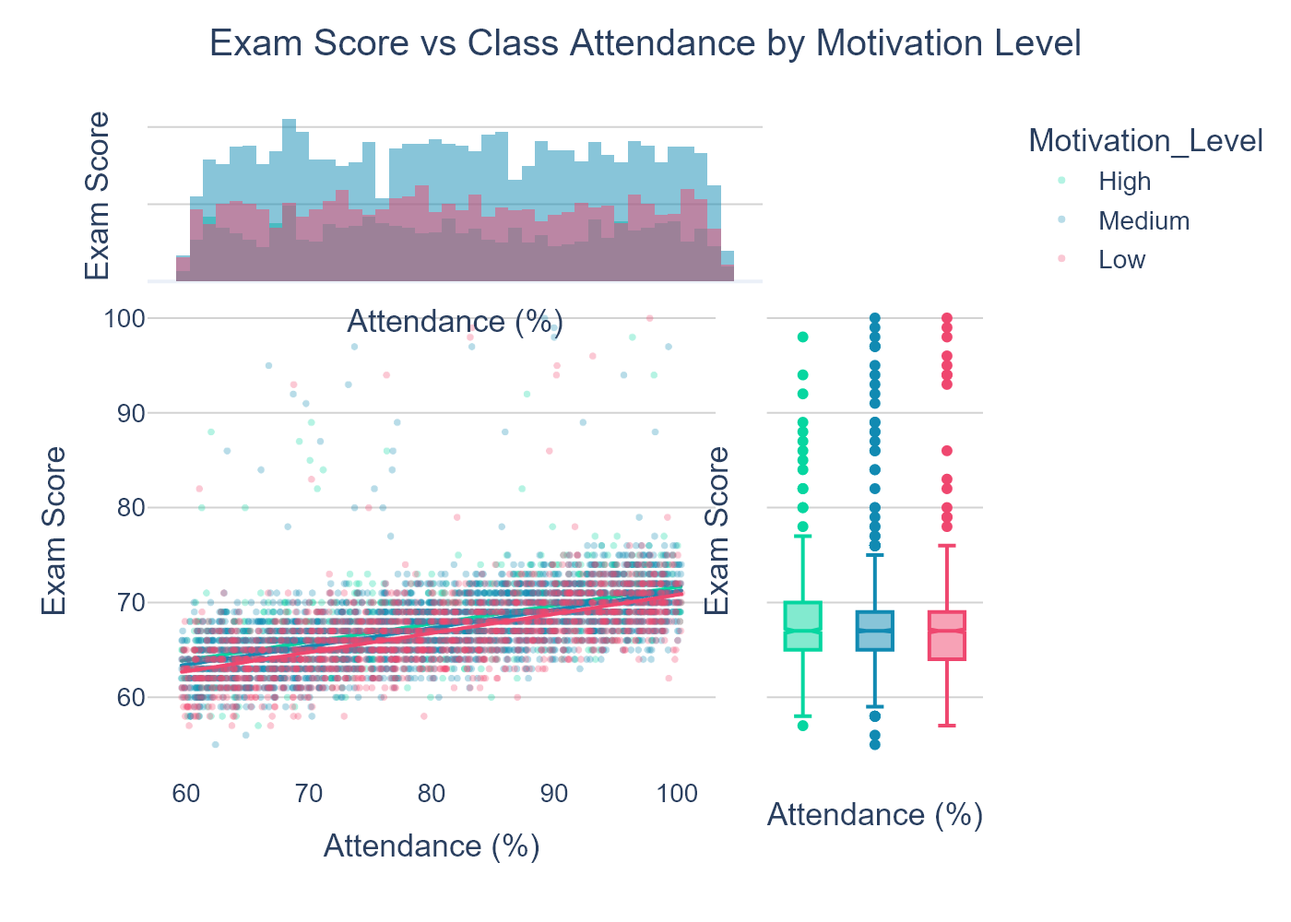
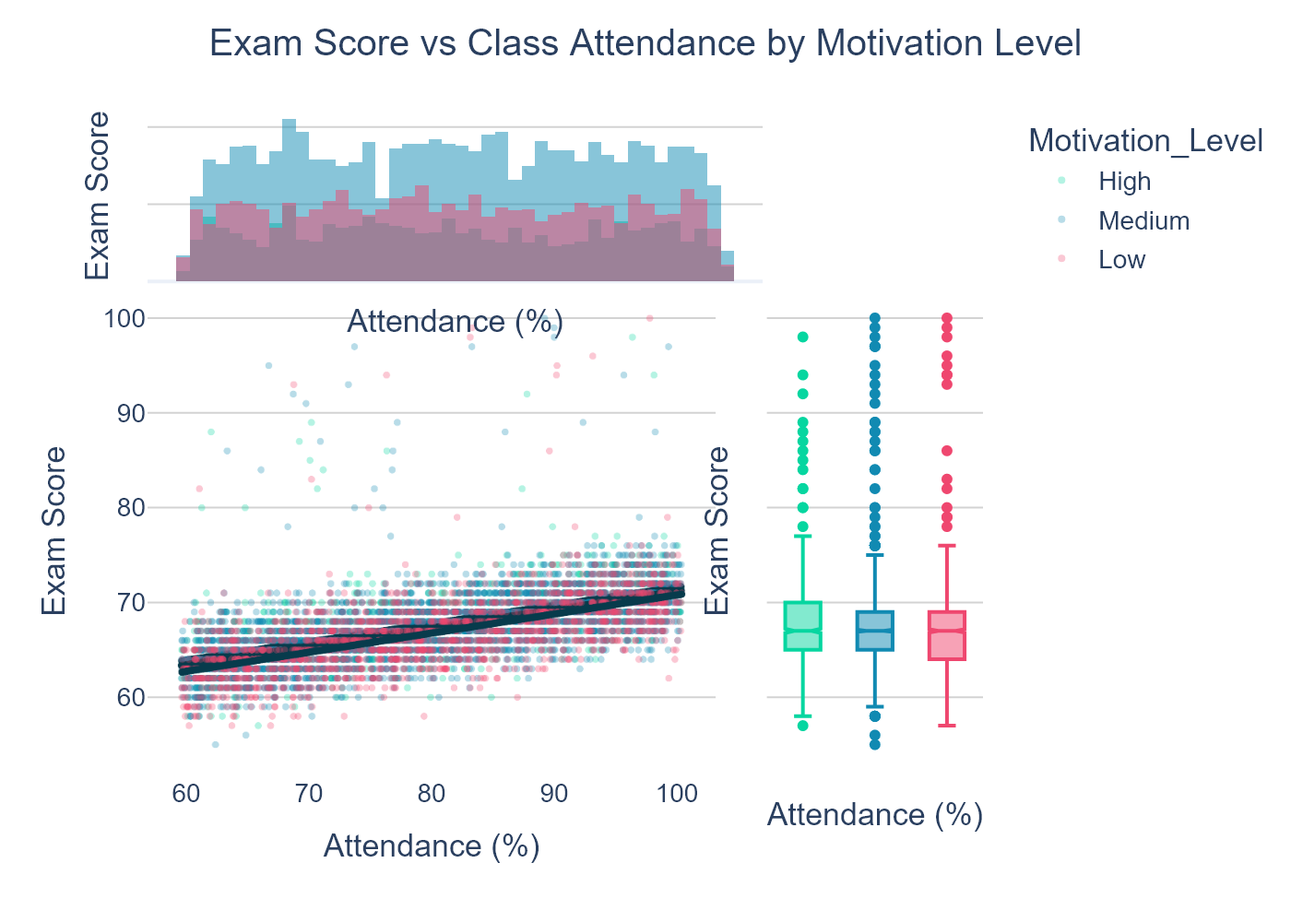
Update

Changed region(s): [[0.1229, 0.62, 0.5529, 0.744]]

diff --git a/scripts/2_3_advanced_visualizations.py b/scripts/2_3_advanced_visualizations.py
@@ -47,6 +47,7 @@ fig_s1 = px.scatter(
     marginal_x="histogram", marginal_y="box"
 )
 fig_s1.update_traces(marker=dict(size=4), selector=dict(mode='markers'))
+fig_s1.update_traces(line=dict(color="#073B4C", width=4), selector=dict(mode='lines'))
 fig_s1 = polish_layout(fig_s1, "Exam Score vs Class Attendance by Motivation Level",
                         "Attendance (%)", "Exam Score")
 fig_s1.update_layout(
@@ -65,6 +66,7 @@ fig_s2 = px.scatter(
     marginal_x="histogram", marginal_y="box"
 )
 fig_s2.update_traces(marker=dict(size=4), selector=dict(mode='markers'))
+fig_s2.update_traces(line=dict(color="#073B4C", width=4), selector=dict(mode='lines'))
 fig_s2 = polish_layout(fig_s2, "Exam Score vs Previous Scores by Internet Access",
                         "Previous Score", "Exam Score")
 fig_s2.update_layout(
@@ -74,6 +76,31 @@ fig_s2.update_layout(
     xaxis=dict(domain=[0, 0.68])
 )
 fig_s2.write_image(os.path.join(plots_dir, "scatter_plots", "Scatter_Previous_Score.png"), scale=2)
+
+# Hours_Studied vs Exam_Score — stratified by Family_Income
+df['Hours_Studied_Jittered'] = df['Hours_Studied'] + np.random.uniform(-0.4, 0.4, size=len(df))
+color_income = {"Low": "#EF476F", "Medium": "#FFD166", "High": "#06D6A0"}
+ordinal_income = ["High", "Medium", "Low"]
+
+fig_s3 = px.scatter(
+    df, x="Hours_Studied_Jittered", y="Exam_Score", color="Family_Income",
+    color_discrete_map=color_income,
+    category_orders={"Family_Income": ordinal_income},
+    opacity=0.3, trendline="ols",
+    marginal_x="histogram", marginal_y="box"
+)
+fig_s3.update_traces(marker=dict(size=4), selector=dict(mode='markers'))
+fig_s3.update_traces(line=dict(color="#073B4C", width=4), selector=dict(mode='lines'))
+fig_s3 = polish_layout(fig_s3, "Exam Score vs Weekly Study Hours by Family Income",
+                        "Weekly Study Hours", "Exam Score")
+fig_s3.update_layout(
+    legend=dict(yanchor="top", y=1, xanchor="left", x=1.05,
+                bgcolor="rgba(255,255,255,0.85)"),
+    margin=dict(r=20),
+    xaxis=dict(domain=[0, 0.68])
+)
+fig_s3.write_image(os.path.join(plots_dir, "scatter_plots", "Scatter_Hours_Score.png"), scale=2)
+
 
 
 # =============================================================================
@@ -176,7 +203,7 @@ fig_par.write_image(os.path.join(plots_dir, "advanced", "ParallelCategories_Back
 # 5. CORRELATION HEATMAP
 # =============================================================================
 num_df = df.select_dtypes(include=[np.number]).drop(
-    columns=['Attendance_Jittered', 'Previous_Scores_Jittered'], errors='ignore'
+    columns=['Attendance_Jittered', 'Previous_Scores_Jittered', 'Hours_Studied_Jittered'], errors='ignore'
 )
 corr_matrix = num_df.corr().round(2)
 

diff --git a/scripts/2_2_basic_visualizations.py b/scripts/2_2_basic_visualizations.py
@@ -121,20 +121,29 @@ bins  = [0, 8, 16, 24, 32, df['Hours_Studied'].max()]
 labels = ['0–8 hrs', '9–16 hrs', '17–24 hrs', '25–32 hrs', f'33–{int(df["Hours_Studied"].max())} hrs']
 df['Hours_Studied_Bin'] = pd.cut(df['Hours_Studied'], bins=bins, labels=labels, right=True)
 
+# Attendance binned: 60–65, 65–70, 70–75, 75–80, 80–85, 85–90, 90–95, 95–100
+att_bins   = [60, 65, 70, 75, 80, 85, 90, 95, 100]
+att_labels = ['60–65%', '65–70%', '70–75%', '75–80%', '80–85%', '85–90%', '90–95%', '95–100%']
+df['Attendance_Bin'] = pd.cut(df['Attendance'], bins=att_bins, labels=att_labels, right=True, include_lowest=True)
+
 for col, name, color in [
     ('Hours_Studied_Bin', 'Weekly Study Hours',  '#118AB2'),
     ('Sleep_Hours',       'Nightly Sleep Hours', '#EF476F'),
     ('Tutoring_Sessions', 'Tutoring Sessions',   '#06D6A0'),
+    ('Attendance_Bin',    'Class Attendance (%)', '#40916C'),
     ]:
     line_df = df.groupby(col, as_index=False, observed=True)['Exam_Score'].mean()
     fig_line = px.line(line_df, x=col, y="Exam_Score", markers=True, line_shape="linear")
     fig_line.update_traces(line=dict(color=color, width=4), marker=dict(size=12, color="#073B4C"))
     fig_line = polish_layout(fig_line, f"Trend of Average Exam Score by {name}", name, "Average Exam Score")
     if col in ('Sleep_Hours', 'Tutoring_Sessions'):
-        fig_line.update_xaxes(tick0=0, dtick=1)
+        fig_line.update_xaxes(tick0=0, dtick=1, zeroline=False)
+    else:
+        fig_line.update_xaxes(zeroline=False)
     fig_line.update_yaxes(range=[50, round(line_df['Exam_Score'].max() + 5)])
     fig_line.write_image(
         os.path.join(plots_dir, "line_charts", f"Line_{col.replace('_Bin','')}.png"), scale=2
     )
 
 print("Basic Visualizations fully regenerated (no mean-bar charts).")
+

diff --git a/docs/Step_2.2_Basic_Visualizations_Report.md b/docs/Step_2.2_Basic_Visualizations_Report.md
@@ -22,7 +22,7 @@
 | 75th percentile (Q3) | 70 |
 | Max | 100 |
 
-**English Insight:** The distribution of `Exam_Score` is right-skewed, with the vast majority of students scoring between 65–70 (IQR = 5 points only). A thin but notable high-performing tail extends above 80. The very narrow IQR relative to the full range (55–100) confirms that most variation is driven by a small subset of high-achievers and low-performers rather than a normal bell curve. This non-normal shape means models trained purely through MSE (which penalizes outliers heavily) may not generalise well.
+**English Insight:** The distribution of `Exam_Score` is right-skewed, with the vast majority of students scoring between 65–70 (IQR = 5 points only). A thin but notable high-performing tail extends above 80, reaching as far as 100. The very narrow IQR relative to the full range (55–100) confirms that most statistical variation is driven by a small subset of **high-achieving outliers in the right tail** — the positive skewness (1.64) means the right tail extends far more than the left. This non-normal shape means models trained purely through MSE (which penalizes outliers heavily) may not generalise well.
 
 **中文洞察:** 目标变量 `Exam_Score` 呈现出典型的右偏态分布。绝大多数学生聚集在 65–70 这个极其狭窄的四分位区间内（IQR 仅为 5 分），均值 67.24、中位数 67.0 几乎重合，说明分布高度聚集。然而从 80 分往上延伸的细长高分尾，是整体成绩方差的主要驱动力。这种非正态形状在建模时要特别注意：以均方误差为损失函数的模型对这条高分尾会产生过度惩罚，建议评估鲁棒回归或基于树的模型。
 
@@ -42,9 +42,9 @@
 | Q3 | 90% |
 | Max | 100% |
 
-**English Insight:** Attendance distribution is strongly left-skewed — concentrated between 70–100%. The majority of students maintain high attendance. The minimum of 60% means the dataset contains no cases of extreme absenteeism. Correlation with Exam Score is **r = 0.581** (the single strongest predictor in the dataset).
+**English Insight:** The distribution of `Attendance` is approximately uniform across the 60–95% range, with each 5-point bin containing roughly 830 students. There is a sharp drop at the 100% bin (near-perfect attendance is rare). The skewness of **0.01** confirms that the distribution is nearly perfectly symmetric — not left- or right-skewed. The mean (79.98%) and median (80.0%) are virtually identical, further confirming the flat, even spread. The minimum of 60% indicates that the dataset contains no cases of extreme absenteeism. Correlation with Exam Score is **r = 0.581** (the single strongest predictor in the dataset).
 
-**中文洞察:** 出勤率分布呈强烈的左偏形态，主体集中在 70–100% 区间，均值约 80%，中位数恰好 80%，最低值为 60%，说明数据集不包含极端缺课案例。其与期末成绩的皮尔逊相关系数高达 **r = 0.581**，是整个数据集中单一数值变量对目标变量的最强预测指标，远超过往成绩（r = 0.175）。
+**中文洞察:** `Attendance`（出勤率）在 60%–95% 范围内的分布近乎均匀，每个 5 分组区间约有 830 名学生。100% 出勤的档位明显偏少（近乎满勤属于少数）。**偏度值仅为 0.01**，证实分布高度对称，既非左偏也非右偏。均值（79.98%）与中位数（80.0%）几乎完全重合，进一步印证了分布的平坦均匀形态。数据集中的最低出勤率为 60%，说明不存在极端缺课的情况。出勤率与期末成绩的皮尔逊相关系数高达 **r = 0.581**，是整个数据集中对目标变量预测力最强的单一变量。
 
 ---
 
@@ -55,6 +55,7 @@
 | Statistic | Value |
 |---|---|
 | Mean | 75.07 |
+| Median | 75.00 |
 | Std Dev | 14.40 |
 | Min | 50 |
 | Q1 | 63 |
@@ -80,7 +81,7 @@
 **Caption:** Violin plot illustrating the distribution of Exam Scores across Motivation Levels (High / Medium / Low).
 *(Insert `plots/box_violin_plots/BoxViolin_Motivation_Level.png`)*
 
-**Caption:** Violin plot illustrating the distribution of Exam Scores across Teacher Quality levels.
+**Caption:** Violin plot illustrating the distribution of Exam Scores across Teacher Quality levels (High / Medium / Low / Unknown).
 *(Insert `plots/box_violin_plots/BoxViolin_Teacher_Quality.png`)*
 
 **Caption:** Violin plot illustrating the distribution of Exam Scores across Parental Involvement levels.
@@ -96,13 +97,14 @@
 | Teacher_Quality | High | 68 | 67.68 | 65 | 70 | 5 |
 | Teacher_Quality | Medium | 67 | 67.11 | 65 | 69 | 4 |
 | Teacher_Quality | Low | 67 | 66.75 | 64 | 69 | 5 |
+| Teacher_Quality | Unknown | 66 | 66.64 | 65 | 69 | 4 |
 | Parental_Involvement | High | 68 | 68.09 | 66 | 70 | 4 |
 | Parental_Involvement | Medium | 67 | 67.10 | 65 | 69 | 4 |
 | Parental_Involvement | Low | 66 | 66.36 | 64 | 69 | 5 |
 
-**English Insight:** The ordinal variables all show a consistent monotonic pattern: the `High` tier holds a higher median than `Low` in every case. However, the absolute differences are small — at most 2 points in median between extremes (e.g., Parental_Involvement High=68 vs Low=66). The IQRs are nearly identical across levels (4–5 points), and the violin shapes show that all tiers share essentially the same distribution shape. This suggests these categorical factors provide a *systematic but modest* directional push, rather than acting as decisive sorting mechanisms. Their true value may lie in interaction effects with other variables.
+**English Insight:** The ordinal variables all show a consistent monotonic pattern: the `High` tier holds a higher median than `Low` in every case. However, the absolute differences are small — at most 2 points in median between extremes (e.g., Parental_Involvement High=68 vs Low=66). The IQRs are nearly identical across levels (4–5 points), and the violin shapes show that all tiers share essentially the same distribution shape. Notably, `Teacher_Quality` includes an `Unknown` category (n=78 students with missing teacher quality records), whose median (66) is marginally lower than the `Low` category (67), suggesting that lack of information about teacher quality may itself be a mild negative signal. This suggests these categorical factors provide a *systematic but modest* directional push, rather than acting as decisive sorting mechanisms. Their true value may lie in interaction effects with other variables.
 
-**中文洞察:** 三个有序分类变量均呈现出一致的单调梯度模式：`High` 层级的中位数始终高于 `Low`。但绝对差异极为有限——极端分组间的中位数差距最大仅为 2 分（父母参与度 High=68 vs Low=66）。各等级的 IQR 也几乎一致（4–5 分），小提琴形态高度相似。这说明这些类别变量对成绩提供的是**稳定但微弱的方向性推力**，而非决定性筛选机制。它们的真正价值可能在于与其他特征的交互效应上，单独使用其预测力有限。
+**中文洞察:** 三个有序分类变量均呈现出一致的单调梯度模式：`High` 层级的中位数始终高于 `Low`。但绝对差异极为有限——极端分组间的中位数差距最大仅为 2 分（父母参与度 High=68 vs Low=66）。各等级的 IQR 也几乎一致（4–5 分），小提琴形态高度相似。尤其将注意的是，`Teacher_Quality` 包含一个 `Unknown` 类别（n=78，教师质量缺失记录的学生），其中位数（66）略低于 `Low` 类别（67），暴露出数据缺失本身可能是轻度负面信号。总体而言，这些类别变量对成绩提供的是**稳定但微弱的方向性推力**，而非决定性筛选机制。它们的真正价値可能在于与其他特征的交互效应上，单独使用其预测力有限。
 
 ---
 
@@ -128,7 +130,7 @@
 | School_Type | Private | 67 | 67.29 | 65 | 70 |
 | School_Type | Public | 67 | 67.21 | 65 | 69 |
 
-**English Insight:** All three binary features show nearly identical medians (both at 66–67). The mean differences are tiny: Internet Access (0.76 pts), Learning Disabilities (1.08 pts), School Type (0.08 pts). School Type in particular has virtually zero impact on median score. The slight penalisation for `Learning_Disabilities = Yes` (mean 66.27 vs 67.35) is plausibly an underestimate due to survivorship bias — students with severe disabilities may have been excluded from the original sample. These findings counter intuitions about strong group-level penalties and suggest that *behaviour and resource allocation*, not group membership, are the primary score drivers.
+**English Insight:** All three binary features show nearly identical medians (each at 66–67). The mean differences are tiny: Internet Access (0.76 pts), Learning Disabilities (1.08 pts), School Type (0.08 pts). School Type in particular has virtually zero impact on median score. The slight penalisation for `Learning_Disabilities = Yes` (mean 66.27 vs 67.35) is plausibly an underestimate due to survivorship bias — students with severe disabilities may have been excluded from the original sample. These findings counter intuitions about strong group-level penalties and suggest that *behaviour and resource allocation*, not group membership, are the primary score drivers.
 
 **中文洞察:** 三个二元特征的中位数几乎重叠（均在 66–67 之间）。均值差距极小：网络访问权限差距仅 0.76 分、学习障碍差距 1.08 分、学校类型差距仅 0.08 分——**School_Type 对成绩的影响实际上接近于零**。Learning_Disabilities 对成绩的轻微惩罚（66.27 vs 67.35）可能被幸存者偏差低估——有严重学习障碍的学生可能根本没有出现在数据集中。这组发现的核心结论是：**群体身份标签（学校类型、网络、障碍状态）对成绩的直接贡献远小于行为习惯变量（出勤、学习时长）**，这对资源干预策略具有重要的现实政策含义。
 
@@ -175,7 +177,7 @@
 
 ---
 
-## 4. Line Charts: Elasticity of Time Allocation
+## 4. Line Charts: Attendance & Time Allocation vs Exam Score
 
 **Caption:** Line chart showing the trend of average Exam Score by weekly Study Hours (binned).
 *(Insert `plots/line_charts/Line_Hours_Studied.png`)*
@@ -222,12 +224,31 @@
 | 7 | 69.86 |
 | 8 | 69.00 |
 
+**Caption:** Line chart showing the trend of average Exam Score by Class Attendance rate (binned into 5-point intervals).
+*(Insert `plots/line_charts/Line_Attendance.png`)*
+
+**Key Data:**
+
+| Attendance Bin | Avg Exam Score |
+|---|---|
+| 60–65% | 63.67 |
+| 65–70% | 64.68 |
+| 70–75% | 65.81 |
+| 75–80% | 66.72 |
+| 80–85% | 67.47 |
+| 85–90% | 68.67 |
+| 90–95% | 69.70 |
+| 95–100% | 70.52 |
+
 **English Insight:**
-1. **Study Hours:** The clearest linear positive elasticity in the entire basic chart set. Students studying 0–8 hours average just 63.66, while 33+ hours yields 71.25 — a spread of **7.59 points** across the full range. This is the largest absolute score delta of any line chart variable.
-2. **Sleep Hours:** Debunks the monotonic assumption entirely. The score plateau between 4–10 hours is remarkably flat (67.63 down to 67.14 — a total range of **just 0.49 points**). There is no sweet spot; sleep in this dataset has virtually no measurable impact on exam performance. This may reflect insufficient variance in the `Sleep_Hours` column or confounding with other variables.
-3. **Tutoring Sessions:** Shows a generally positive trend (0 sessions = 66.49, 6 sessions = 71.67), but the pattern breaks at 7–8 sessions (69.86, 69.00) suggesting diminishing returns. The peak at 6 sessions (+5.18 points above zero) suggests an optimal dosage effect.
+1. **Attendance:** The most consistent and steepest positive slope of all four line charts — the single strongest behavioural predictor (Pearson r = 0.581). Average score rises monotonically from **63.67** (60–65% attendance) to **70.52** (95–100%), a total spread of **+6.85 points**. The relationship is nearly perfectly linear with no plateau or inflection, confirming that every additional percentage point of attendance yields a measurable gain in exam outcome.
+2. **Study Hours:** The clearest linear positive elasticity in the entire basic chart set. Students studying 0–8 hours average just 63.66, while 33+ hours yields 71.25 — a spread of **7.59 points** across the full range. This is the largest absolute score delta of any line chart variable.
+3. **Sleep Hours:** Debunks the monotonic assumption entirely. The score plateau between 4–10 hours is remarkably flat (67.63 down to 67.14 — a total range of **just 0.49 points**). There is no sweet spot; sleep in this dataset has virtually no measurable impact on exam performance. This may reflect insufficient variance in the `Sleep_Hours` column or confounding with other variables.
+4. **Tutoring Sessions:** Shows a generally positive trend (0 sessions = 66.49, 6 sessions = 71.67), but the pattern breaks at 7–8 sessions (69.86, 69.00) suggesting diminishing returns. The peak at 6 sessions (+5.18 points above zero) suggests an optimal dosage effect.
 
 **中文洞察:**
-1. **学习时长：** 是基础图表集中弹性最清晰的正向线性变量。从 0–8 小时的均分 63.66，到 33+ 小时的均分 71.25，全量程差距高达 **7.59 分**。这是三张折线图中最大的绝对成绩跨度。
-2. **睡眠时间：** 彻底颠覆了单调递增的刻板印象。从 4 小时到 10 小时，成绩的整体波动幅度仅为 **0.49 分**（67.63 → 67.14）——几近于零的影响。在这个数据集中，睡眠时间对成绩实际上没有可测量的统计影响，可能存在与其他变量的混淆效应，或该列在数据采集时的精度不足。
-3. **辅导次数：** 总体趋势为正（0 次 66.49 → 6 次 71.67），但在 7–8 次时开始下降（69.86、69.00），说明存在**边际收益递减效应**，最优投入量大约在 6 次附近（比零次高出 5.18 分）。
+1. **出勤率：** 四张折线图中斜率最一致、最陡峭的正向趋势——也是整个数据集中单一最强的行为预测变量（r = 0.581）。平均分从 60–65% 出勤区间的 **63.67** 单调上升至 95–100% 区间的 **70.52**，全量程跨度达 **+6.85 分**。关系近乎完美线性，无平台期或拐点，证实每提高一个百分点的出勤率均能带来可测量的成绩增益。
+2. **学习时长：** 是基础图表集中弹性最清晰的正向线性变量。从 0–8 小时的均分 63.66，到 33+ 小时的均分 71.25，全量程差距高达 **7.59 分**。这是四张折线图中最大的绝对成绩跨度。
+3. **睡眠时间：** 彻底颠覆了单调递增的刻板印象。从 4 小时到 10 小时，成绩的整体波动幅度仅为 **0.49 分**（67.63 → 67.14）——几近于零的影响。在这个数据集中，睡眠时间对成绩实际上没有可测量的统计影响，可能存在与其他变量的混淆效应，或该列在数据采集时的精度不足。
+4. **辅导次数：** 总体趋势为正（0 次 66.49 → 6 次 71.67），但在 7–8 次时开始下降（69.86、69.00），说明存在**边际收益递减效应**，最优投入量大约在 6 次附近（比零次高出 5.18 分）。
+

diff --git a/docs/Step_2.3_Advanced_Visualizations_Report.md b/docs/Step_2.3_Advanced_Visualizations_Report.md
@@ -15,11 +15,15 @@
 **Caption:** Scatter plot with marginal histogram (X-axis) and box plot (Y-axis), illustrating the relationship between Exam Score and Previous Scores, stratified by Internet Access status.
 *(Insert `plots/scatter_plots/Scatter_Previous_Score.png`)*
 
+**Caption:** Scatter plot with marginal histogram (X-axis) and box plot (Y-axis), illustrating the relationship between Exam Score and Weekly Study Hours, stratified by Family Income.
+*(Insert `plots/scatter_plots/Scatter_Hours_Score.png`)*
+
 **Key Data — Pairwise Correlations:**
 
 | Variable Pair | Pearson r | Interpretation |
 |---|---|---|
 | Attendance vs Exam_Score | **0.581** | Strong positive — the #1 predictor |
+| Hours_Studied vs Exam_Score | **0.446** | Moderate positive — the #2 predictor |
 | Previous_Scores vs Exam_Score | **0.175** | Weak positive — surprisingly low |
 
 **Why Relevant to This Dataset / 为何与本数据集高度相关:**
@@ -27,9 +31,9 @@ This dataset contains multiple continuous numerical variables (Attendance, Previ
 
 本数据集包含多个连续数值变量（出勤率、过往成绩、学习时长、期末成绩），其两两关系在分析前未知。散点图是检测两个定量变量线性关联关系的标准工具，OLS 拟合线使斜率方向与梯度直接可读。边缘分布同时揭示两个轴的密度形态，不仅展示相关性，还暴露揭示群体差异的非重叠密度区域。在 n=6,607 的大样本下，若不施加抖动（jitter）和透明度调整，点图会严重重叠，上述处理均已应用。
 
-**English Insight:** The scatter plot for Attendance reveals the strongest linear relationship in the entire dataset (r = 0.581). The OLS trendline rises sharply as attendance increases from 60% to 100%, and the marginal box plots on the Y-axis confirm that high-motivation students (green) hold a visibly tighter upper IQR versus low-motivation (red), though all tiers share overlapping cores. The `Previous_Scores` scatter is unexpectedly diffuse (r = 0.175) — the cloud of points shows far more vertical spread than one would expect from a "prior performance" predictor, suggesting that historical scores are poor proxies for current-term outcomes in this cohort.
+**English Insight:** The scatter plot for Attendance reveals the strongest linear relationship in the entire dataset (r = 0.581). The OLS trendline rises sharply as attendance increases from 60% to 100%, and the marginal box plots on the Y-axis confirm that high-motivation students (green) hold a visibly tighter upper IQR versus low-motivation (red), though all tiers share overlapping cores. The `Hours_Studied` scatter (r = 0.446) shows the second-strongest positive slope: the trendlines for all three income groups (High, Medium, Low) are nearly parallel, confirming that the return on study hours is approximately equal across income groups — effort, not background, drives score improvement here. The `Previous_Scores` scatter is unexpectedly diffuse (r = 0.175) — the cloud of points shows far more vertical spread than one would expect from a "prior performance" predictor, suggesting that historical scores are poor proxies for current-term outcomes in this cohort.
 
-**中文洞察:** 出勤率散点图揭示了整个数据集中最强的线性关系（**r = 0.581**），OLS 拟合线从 60% 出勤率到 100% 呈明显上升趋势。右侧边缘箱线图进一步揭示：高动力学生（绿）的 Q3 略高于低动力学生（红），尽管三组核心分布高度重叠。过往成绩散点图的结论更为反直觉：**r = 0.175 的极弱相关性**意味着历史成绩对当期成绩的预测力极为有限——竖直方向的超大离散度说明同等历史成绩的学生，期末表现可以相差悬殊，这正是凸显行为习惯类特征（出勤、学习时长）胜过静态基线特征的核心数据证据。
+**中文洞察:** 出勤率散点图揭示了整个数据集中最强的线性关系（**r = 0.581**），OLS 拟合线从 60% 出勤率到 100% 呈明显上升趋势。右侧边缘箱线图进一步揭示：高动力学生（绿）的 Q3 略高于低动力学生（红），尽管三组核心分布高度重叠。学习时长散点图（**r = 0.446**）展示了第二强的正向斜率：高、中、低收入三个群体的 OLS 拟合线近乎平行，说明学习时长对成绩的回报率在不同收入背景下基本一致——努力程度而非家庭背景，才是这一区间内推动成绩提升的驱动力。过往成绩散点图的结论更为反直觉：**r = 0.175 的极弱相关性**意味着历史成绩对当期成绩的预测力极为有限——竖直方向的超大离散度说明同等历史成绩的学生，期末表现可以相差悬殊。
 
 ---
 
@@ -48,9 +52,9 @@ With 6,607 individual points on a scatter plot, coincident observations cause se
 
 在 6,607 个点的散点图中，重叠观测造成了严重的过度绘制问题——点层叠在一起，真实密度结构变得不可见。2D 密度等高线图用嵌套等密度曲线（类似地形图）替代了单个点，准确呈现联合分布的概率密度分布。该图表被特别选用，是因为本数据集极窄的 Exam_Score 分布（std=3.89）将几乎所有点压缩进 Y 轴上仅 8 分宽的区间，标准散点图会将其渲染为一团无法区分的密集点云。等高线使真实的质量中心得以精确定位。
 
-**English Insight:** The density contour solves the overplotting problem inherent in n = 6,607 scatter plots. The innermost contour ring — the highest-density region — is centred at approximately Previous_Score ≈ 75–80, Exam_Score ≈ 65–68. This is where the bulk of the student population resides. The elongated, near-vertical orientation of the contour ellipses (rather than a diagonal slope) visually confirms the weak r = 0.175 correlation: for any given prior score value, the final exam score distribution is almost as wide as the entire dataset.
+**English Insight:** The density contour solves the overplotting problem inherent in n = 6,607 scatter plots. The innermost contour ring — the highest-density region — is centred at approximately Previous_Score ≈ 75–80, Exam_Score ≈ 65–68. This is where the bulk of the student population resides. The elongated, near-horizontal orientation of the contour ellipses (wide in X, compressed in Y — rather than a diagonal 45° slope) visually confirms the weak r = 0.175 correlation: across the entire range of prior scores (50–100), the final exam scores remain packed into the same narrow band of approximately 63–72, confirming that historical scores have almost no locking effect on current outcomes.
 
-**中文洞察:** 2D 密度等高线图从根本上解决了 6,607 个数据点的极度密集重叠问题。最内圈的最高密度坐标区域集中在 Previous_Score ≈ 75–80、Exam_Score ≈ 65–68 的交叉地带，这是学生群体的真实人口质心。等高线椭圆几乎呈纵向排列（而非 45°对角线斜向），以视觉语言直接证实了 **r = 0.175 的弱相关性**——在任意给定的历史成绩水平上，最终成绩的分布宽度几乎覆盖了全量程，说明历史成绩对终点没有锁定效应。
+**中文洞察:** 2D 密度等高线图从根本上解决了 6,607 个数据点的极度密集重叠问题。最内圈的最高密度坐标区域集中在 Previous_Score ≈ 75–80、Exam_Score ≈ 65–68 的交叉地带，这是学生群体的真实人口质心。等高线椭圆呈**横向扁平拉伸**的形态（X 轴方向宽而 Y 轴方向窄），而非理想相关下的 45° 斜向带状——这以视觉语言直接证实了 **r = 0.175 的弱相关性**：在 50–100 的整个历史成绩范围内，期末成绩始终被压缩在约 63–72 的同一窄带中，说明历史成绩对当期终点几乎没有锁定效应。
 
 ---
 
@@ -70,11 +74,11 @@ With 6,607 individual points on a scatter plot, coincident observations cause se
 
 **Key summary statistics:**
 
-| Motivation | Avg Exam Score | Avg Attendance | Avg Hrs Studied |
+| Motivation | Avg Exam Score | Avg Attendance (%) | Avg Hrs Studied |
 |---|---|---|---|
-| High | 67.70 | ~80 | — |
-| Medium | 67.33 | ~80 | — |
-| Low | 66.75 | ~80 | — |
+| High | 67.70 | 79.71 | 19.73 |
+| Medium | 67.33 | 80.11 | 20.08 |
+| Low | 66.75 | 79.93 | 19.96 |
 
 **Why Relevant to This Dataset / 为何与本数据集高度相关:**
 This dataset uniquely contains four variables hypothesised to interact — Attendance, Hours_Studied, Motivation_Level, and Exam_Score. Standard 2D plots can reveal only two of these relationships at once, obscuring the compounding or moderating effects. A bubble chart is the correct multi-dimensional extension: it uses the preattentive attributes of position (X, Y), size (bubble), and colour (motivation) simultaneously — directly aligned with the course principle of leveraging preattentive attributes to reduce cognitive load. This chart is specifically justified because the interaction of Attendance × Hours_Studied is central to the study's equity hypothesis: students who maintain high attendance *and* invest high study hours are predicted to show disproportionately superior outcomes.
@@ -129,9 +133,9 @@ A common assumption in education research is that private schools provide better
 
 | Score Bin | Approximate range | % of students |
 |---|---|---|
-| Low Scorers | ≤ 65 | ~33% |
-| Mid Scorers | 65–69 | ~33% |
-| High Scorers | ≥ 69 | ~33% |
+| Low Scorers | 55–66 | ~43% |
+| Mid Scorers | 67–69 | ~32% |
+| High Scorers | 70–100 | ~25% |
 
 **Key Data — Underlying distributions by Income:**
 

diff --git a/docs/Step_1.1_Data_Cleaning_Report.md b/docs/Step_1.1_Data_Cleaning_Report.md
@@ -3,37 +3,48 @@
 ## 1. Data Shape & Quality Inspection (数据形状与质量检查)
 
 **English:**
-The raw dataset `StudentPerformanceFactors.csv` was successfully loaded. The initial dataset contains **6,607 rows** and **20 columns**. 
-Upon inspection, three categorical columns contained missing values: `Teacher_Quality`, `Parental_Education_Level`, and `Distance_from_Home`. Additionally, an anomaly was detected in the target variable `Exam_Score`, where 1 record exceeded the logical maximum score of 100 (value = 101). 
+The raw dataset `StudentPerformanceFactors.csv` was successfully loaded. The initial dataset contains **6,607 rows** and **20 columns**.
+Upon inspection, three categorical columns contained missing values: `Teacher_Quality`, `Parental_Education_Level`, and `Distance_from_Home`. Additionally, one record in the target variable `Exam_Score` contained an invalid entry exceeding the maximum possible score of 100 (value = 101).
 
 **中文:**
 成功加载原始数据集 `StudentPerformanceFactors.csv`。初始数据集包含 **6,607 行** 和 **20 列**。
-经检查，三个类别型特征存在缺失值：老师质量 (`Teacher_Quality`)、父母教育水平 (`Parental_Education_Level`) 和 通勤距离 (`Distance_from_Home`)。此外，在目标变量 `Exam_Score` 中检测到一处异常值，有 1 条记录的成绩超出了逻辑满分 100 分 (分数为 101)。
+经检查，三个类别型字段存在缺失值：教师质量 (`Teacher_Quality`)、父母教育水平 (`Parental_Education_Level`) 及通勤距离 (`Distance_from_Home`)。此外，目标变量 `Exam_Score` 中有 1 条记录的数值（101）超出了满分上限（100），属于无效数据。
 
 ---
 
-## 2. Rigorous Preprocessing Strategy (严谨的预处理策略)
+## 2. Data Cleaning Strategy (数据处理方法与目的)
 
 **English:**
-To strictly adhere to data science first principles and absolutely prevent **Data Leakage** prior to the Train-Test Split in Phase 4, the following scientific strategies were applied:
-1. **Anomaly Handling:** The single `Exam_Score` > 100 was clipped to exactly 100 to maintain domain validity. Any potential negative values in numerical columns were also safeguarded by clipping them to 0.
-2. **Missing Value Imputation without Leakage:** Rather than computing the mathematical mode across the entire dataset (which would cause target/future data leakage), missing values in the categorical columns were filled with a constant placeholder class: `"Unknown"`. This completely neutralizes missingness seamlessly and securely.
+The following cleaning steps were applied to ensure the dataset is accurate, consistent, and ready for analysis:
 
-The cleaned dataset has been successfully exported to `/data/StudentPerformanceFactors_cleaned.csv` while perfectly retaining the original dimensions of **(6607, 20)**.
+1. **Invalid Value Correction:** The single record where `Exam_Score` exceeded 100 was corrected to exactly 100, preserving the observation while restoring logical validity. A safeguard was also applied to any numerical column to ensure no negative values exist, as negative scores are not meaningful in this educational context.
+
+2. **Missing Value Handling:** The three columns with missing values (`Teacher_Quality`, `Parental_Education_Level`, `Distance_from_Home`) were handled by filling the gaps with a dedicated placeholder category: `"Unknown"`. This approach was chosen because:
+   - The missing counts are small (67–90 records each, under 1.4% of total rows), so removing these rows would cause unnecessary loss of valid information.
+   - Replacing with `"Unknown"` preserves the rows in the dataset and allows these records to remain part of the analysis without distorting other variables.
+   - The `"Unknown"` category is treated as a separate, legitimate group in subsequent encoding and modelling steps, which is more informative than discarding the data entirely.
+
+The cleaned dataset retains the original dimensions of **(6,607 rows × 20 columns)** — no rows were deleted.
 
 **中文:**
-为了恪守数据科学第一性原理，并绝对防止在 Phase 4 进行训练集-测试集划分前发生**数据泄露 (Data Leakage)**，我们采取了以下科学严谨的处理策略：
-1. **异常值处理：** 出于业务逻辑考量，将唯一一条大于 100 的 `Exam_Score` 直接截断 (clip) 回最高分 100。此外，在数值型列中添加了防止出现负数的逻辑截断机制。
-2. **防泄露的缺失值填补：** 未在现阶段使用全体数据集计算众数 (Mode) 填补（此举会引发使用未来的测试集数据来参与填补，导致数据泄露）。而是为缺失的类别型特征统一创建一个新的占位类：`"Unknown"`。此方法完美化解了缺失样本问题，同时绝对安全。
+以下清洗步骤用于确保数据的准确性、一致性，并为后续分析做好准备：
 
-清洗后的最终数据已成功导出至 `/data/StudentPerformanceFactors_cleaned.csv`，且完美保留了初始的 **(6607, 20)** 数据维度。
+1. **无效值修正：** 将唯一一条超过满分上限的 `Exam_Score`（值为 101）修正回 100，使该条记录恢复逻辑有效性，同时得以保留于数据集中。此外，对数值类字段添加了非负数保护，因为本数据集中不存在负分的实际含义。
+
+2. **缺失值处理：** 对含有缺失值的三个字段（`Teacher_Quality`、`Parental_Education_Level`、`Distance_from_Home`），统一以占位类别 `"Unknown"` 进行填补。选用此方案的理由如下：
+   - 各字段缺失数量较少（每列 67–90 条，均不超过总行数的 1.4%），若直接删除行会造成不必要的有效信息损失。
+   - 以 `"Unknown"` 填补可完整保留这些记录，使其继续参与分析，避免数据损耗。
+   - 在后续的编码与建模步骤中，`"Unknown"` 作为独立的类别分组对待，比直接丢弃更具信息价值。
+
+清洗后的数据集完整保留了原始规模 **(6,607 行 × 20 列)**，未删除任何行。
 
 ---
 
 *Table 1: Summary of Missing Values Handled (已处理的缺失值总结)*
 
-| Column (列名) | Missing Count (缺失数量) | Handling Strategy (处理策略) |
-| :--- | :--- | :--- |
-| Teacher_Quality | 78 | Replaced with "Unknown" |
-| Parental_Education_Level | 90 | Replaced with "Unknown" |
-| Distance_from_Home | 67 | Replaced with "Unknown" |
+| Column (列名) | Missing Count (缺失数量) | % of Total (占比) | Handling Strategy (处理策略) |
+| :--- | :--- | :--- | :--- |
+| Teacher_Quality | 78 | 1.18% | Replaced with "Unknown" |
+| Parental_Education_Level | 90 | 1.36% | Replaced with "Unknown" |
+| Distance_from_Home | 67 | 1.01% | Replaced with "Unknown" |
+| Exam_Score > 100 | 1 | 0.02% | Clipped to 100 (value correction) |

diff --git a/docs/Step_4_Predictive_Analytics_Report.md b/docs/Step_4_Predictive_Analytics_Report.md
@@ -139,8 +139,8 @@ This dataset is fundamentally **cross-sectional**: it represents a single snapsh
 
 | Plot (图表) | Caption / 说明 |
 |---|---|
-| `Reg_ActualVsPredicted.png` | **Actual vs Predicted Exam Score.** Points are tightly clustered around the perfect-fit diagonal (y = x), confirming the model's strong linear fit. The few outliers are extreme-scoring students (>85) whose performance is driven by factors not fully observable in this dataset. **实际值与预测值对比散点图。** 散点高度集聚在理想拟合对角线周围，证实了模型优异的线性拟合能力。少量离群点属于极高分学生（>85分），其表现受到本数据集部分未完全捕获要素的影响。 |
-| `Reg_ResidualDistribution.png` | **Residual Distribution Histogram.** The near-zero mean residual and approximately normal distribution confirm that the model's errors are random and unbiased — a prerequisite for a well-calibrated regression. **残差分布直方图。** 残差均值接近零且近似正态分布，证实模型误差具有随机无偏性——这是一个优质校准回归模型的基本前提。 |
+| `Reg_ActualVsPredicted.png` | **Actual vs Predicted Exam Score.** The tight clustering on the lower part of the diagonal confirms the model accurately predicts the majority of students. However, it completely fails to capture the high-performing right tail: students scoring 85–100 are consistently under-predicted by the model, causing points to fall far below the $y=x$ ideal fit line. <br>**实际值与预测值对比散点图。** 在对角线下方的高度集聚证实了模型对绝大多数主体学生预测精准。然而，它**完全未能捕获表现优异的右尾群体**：考出 85-100 极高分的学生被模型严重低估，导致这一区间的散点大幅度跌落至 $y=x$ 理想拟合线下方。<br> |
+| `Reg_ResidualDistribution.png` | **Residual Distribution Histogram.** While the mean is near zero, the distribution is **not normal**; it exhibits a massive leptokurtic peak near zero and a heavy right tail (reaching up to +30). This confirms mathematically what the scatter plot showed: the model has enormous negative error (under-prediction) for the small cohort of academic outliers. <br>**残差分布直方图。** 尽管均值接近零，但该分布**绝非正态分布**；它在 0 附近呈现出极端的狭峰形态，并伴随着直到 +30 的沉重右长尾。这从数学上印证了散点图的结论：模型对于那一小撮“学神级”离群点产生了巨大的低估误差（欠拟合）。 |
 | `Reg_FeatureImportance.png` | **Ridge Regression Feature Importance (|Coefficient| Magnitude).** The top predictors by absolute coefficient identify the strongest linear levers of Exam Score, directly informing which student characteristics school interventions should prioritise. **岭回归特征重要性（绝对系数大小）图。** 按绝对系数排序的顶部特征揭示了学业成绩最强的线性驱动要素，直接指导学校干预措施的优先方向。 |
 
 ### Classification Model — Logistic Regression (F1 = 0.980, AUC = 0.995)
@@ -148,6 +148,6 @@ This dataset is fundamentally **cross-sectional**: it represents a single snapsh
 | Plot (图表) | Caption / 说明 |
 |---|---|
 | `Clf_ConfusionMatrix.png` | **Normalised Confusion Matrix.** The model correctly classifies 97.4% of "Below Average" students and 98.8% of "Above Average" students — with only 19 false positives and 7 false negatives out of 1,322 test samples. **标准化混淆矩阵。** 模型正确识别了 97.4% 的"低于均值"学生和 98.8% 的"高于均值"学生，在 1,322 个测试样本中仅产生 19 个假阳性和 7 个假阴性。 |
-| `Clf_ROCCurve.png` | **ROC Curve (AUC = 0.995).** The curve rises sharply to the top-left corner with negligible area remaining below, approaching a perfect classifier. An AUC of 0.995 means the model virtually always ranks an at-risk student higher in risk than a non-at-risk student. **ROC曲线（AUC = 0.995）。** 曲线急剧攀升至左上角，曲线下方剩余面积极小，趋近于完美分类器表现。AUC=0.995 意味着模型几乎总是能将高风险学生的预测风险评分排在低风险学生之上。 |
-| `Clf_PRCurve.png` | **Precision-Recall Curve (AUC = 0.994).** Maintains near-perfect precision across all recall levels, confirming that when the model flags a student as "at-risk", this flag is almost always correct — critical for resource-constrained intervention systems. **精确率-召回率曲线（AUC = 0.994）。** 在所有召回率水平下始终保持接近完美的精确率，证实每当模型将一名学生标记为"高风险"时，该标记几乎总是准确的——这对于资源有限的干预体系至关重要。 |
+| `Clf_ROCCurve.png` | **ROC Curve (AUC = 0.995).** The curve rises sharply to the top-left corner with negligible area remaining **above** the curve, approaching a perfect classifier. An AUC of 0.995 means the model virtually always ranks an at-risk student higher in risk than a non-at-risk student. **ROC曲线（AUC = 0.995）。** 曲线急剧攀升至左上角，曲线**上方**剩余面积极小（即曲线与完美点(0,1)之间的空白极小），趋近于完美分类器表现。AUC=0.995 意味着模型几乎总是能将高风险学生的预测风险评分排在低风险学生之上。 |
+| `Clf_PRCurve.png` | **Precision-Recall Curve (AUC = 0.996).** Maintains near-perfect precision across all recall levels, confirming that when the model flags a student as "at-risk", this flag is almost always correct — critical for resource-constrained intervention systems. **精确率-召回率曲线（AUC = 0.996）。** 在所有召回率水平下始终保持接近完美的精确率，证实每当模型将一名学生标记为"高风险"时，该标记几乎总是准确的——这对于资源有限的干预体系至关重要。 |
 | `Clf_FeatureImportance.png` | **Logistic Regression Feature Importance (|Coefficient| Magnitude).** Reveals which student attributes are the strongest discriminators between above- and below-average performers, providing a theoretical grounding for targeted programme design. **逻辑回归特征重要性（绝对系数大小）图。** 揭示了哪些学生属性是区分高于/低于均值绩效者的最强判别器，为定向项目设计提供了理论基础。 |

diff --git a/docs/Step_2.1_Statistical_Summary_Report.md b/docs/Step_2.1_Statistical_Summary_Report.md
@@ -10,7 +10,7 @@ Table 1: Descriptive Statistics of Numerical Variables
 | Hours_Studied | 19.98 | 20.00 | 20.00 | 5.99 | 0.01 |
 | Attendance | 79.98 | 80.00 | 67.00 | 11.55 | 0.01 |
 | Sleep_Hours | 7.03 | 7.00 | 7.00 | 1.47 | -0.02 |
-| Previous_Scores | 75.07 | 75.00 | 66.00 | 14.40 | -0.00 |
+| Previous_Scores | 75.07 | 75.00 | 66.00 | 14.40 | 0.00 |
 | Tutoring_Sessions | 1.49 | 1.00 | 1.00 | 1.23 | 0.82 |
 | Physical_Activity | 2.97 | 3.00 | 3.00 | 1.03 | -0.03 |
 | Exam_Score | 67.24 | 67.00 | 68.00 | 3.89 | 1.64 |
@@ -24,13 +24,13 @@ Table 1: Descriptive Statistics of Numerical Variables
 **English Insight:**
 How do these statistics describe the dataset? 
 The descriptive statistics reveal several core behavioral patterns in the student cohort:
-1. **Normal Distributions:** Key academic inputs like `Hours_Studied` and `Sleep_Hours` demonstrate near-perfect symmetry (Skewness close to 0), with mean and median perfectly aligned. This indicates standard behavioral adherence across the population.
+1. **Near-Symmetric Distributions:** Key academic inputs like `Hours_Studied` and `Sleep_Hours` demonstrate near-perfect symmetry (Skewness close to 0), with mean and median very closely aligned. This indicates that most students share similar behavioral patterns, with minimal variance in daily academic routines.
 2. **Right-Skewed Behavior:** Extra `Tutoring_Sessions` is notably right-skewed (0.82) with a mode of 1.0 and mean of 1.49, indicating most students take minimal tutoring, while a small tail takes significantly more.
 3. **Target Variable Characteristics:** The target variable `Exam_Score` has a mean of 67.24 and median of 67.0, maintaining a tight standard deviation of 3.89. However, it shows a positive skewness of 1.64, suggesting a presence of high-performing outliers stretching the upper bounds. This insight is critical for model baseline assumptions, as most students score clustered tightly around 67.
 
 **中文分析:**
 这些统计量如何精准描绘当前的数据集分布全貌？
 通过描述性统计量，我们可以深刻洞察该学生群体的核心行为模式：
-1. **正态对称特征：** `Hours_Studied` (每周学习时长) 与 `Sleep_Hours` (睡眠时间) 等关键学业投入变量展现出近乎完美的正态对称特征 (偏度近似于 0)，其均值、中位数和众数高度重叠。这表明绝大多数学生的日常作息高度相近，行为方差极小。
+1. **近似对称分布特征：** `Hours_Studied` (每周学习时长) 与 `Sleep_Hours` (睡眠时间) 等关键学业投入变量展现出近似对称分布特征 (偏度接近 0)，均值与中位数高度接近。这表明绝大多数学生的日常作息高度相近，行为方差极小。
 2. **右偏分布特征：** `Tutoring_Sessions` (辅导次数) 呈现显著的右偏态分布 (偏度 0.82)，众数仅为 1 次，而均值被少数高频参加辅导的学生拉高至 1.49 次。这意味着绝大多数群体不依赖密集辅导，存在“辅导依赖长尾”。
 3. **目标变量诊断：** 核心预测变量 `Exam_Score` (考试成绩) 均值为 67.24，中位数 67.00，标准差极低 (仅为 3.89)。值得注意的是，其呈现出 1.64 的正偏度，暗示虽然成绩主要紧密聚集在 67 分附近，但存在少数斩获极高分的拔尖学生。这对于我们后期设定回归基线与不平衡检测具有极佳的指导意义。
